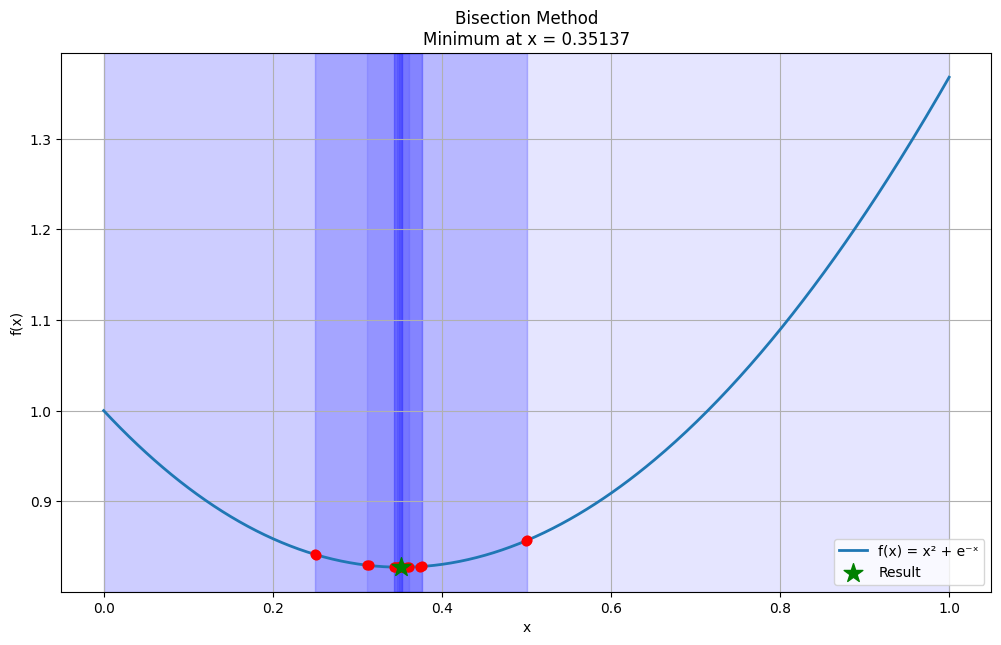
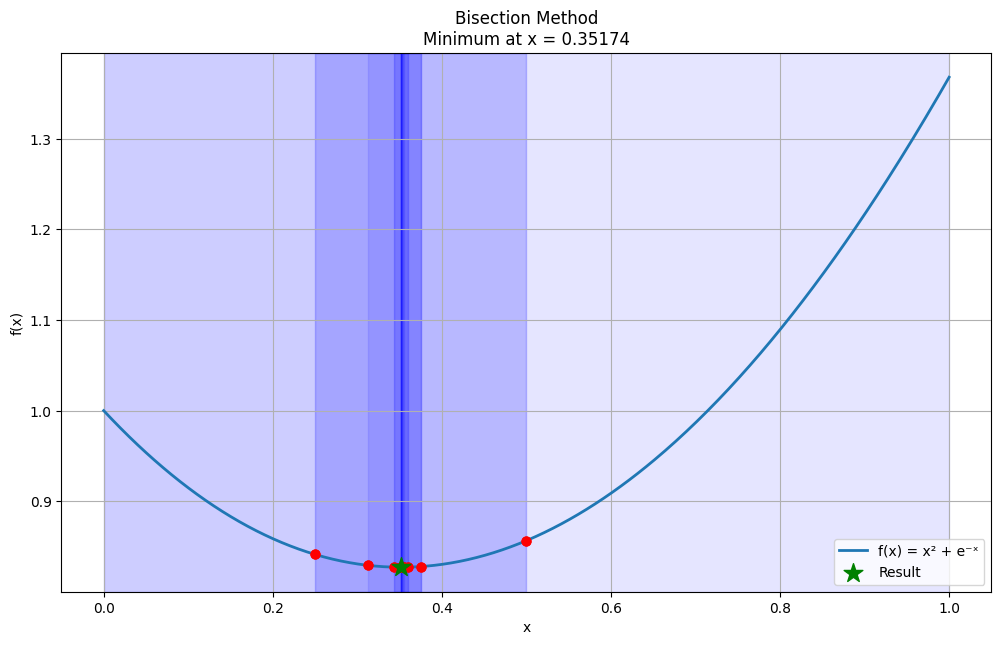
change epsilon

Changed region(s): [[0.3716, 0.093, 0.4026, 0.8682], [0.4026, 0.8682, 0.4336, 0.8992]]

diff --git a/main.py b/main.py
@@ -11,7 +11,7 @@ import numpy as np
 
 # Настройки
 os.makedirs("plots", exist_ok=True)
-a, b, eps = 0, 1, 0.003
+a, b, eps = 0, 1, 0.00001
 
 # Инициализация всех методов
 methods = {
@@ -28,6 +28,8 @@ for name, method in methods.items():
     result, iterations = method.solve()
     plot_method(method, f"{name} Method", name.lower().replace(" ", "_"))
     results[name] = (result, iterations)
+
+
 
 # Вывод результатов
 print("{:<15} | {:<10} | {:<10}".format("Method", "Result", "Iterations"))

diff --git a/optimizers.py b/optimizers.py
@@ -10,13 +10,11 @@ class BisectionMethod:
         
     def solve(self):
         a, b = self.a, self.b
-        delta = self.eps / 3
         iterations = 0
         
-        while (b - a) > self.eps:
-            c = (a + b)/2
-            x1 = max(a, c - delta)
-            x2 = min(b, c + delta)
+        while (b - a) > self.eps * 2:
+            x1 = (a + b - self.eps) / 2
+            x2 = (a + b + self.eps) / 2
             
             self.history.append({
                 'left': a,

diff --git a/functions.py b/functions.py
@@ -11,3 +11,6 @@ def df(x):
 def d2f(x):
     """Вторая производная: f''(x) = 2 + e^(-x)"""
     return 2 + math.exp(-x)
+
+
+
